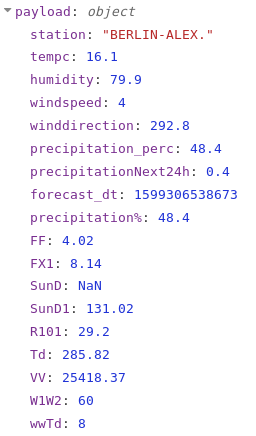
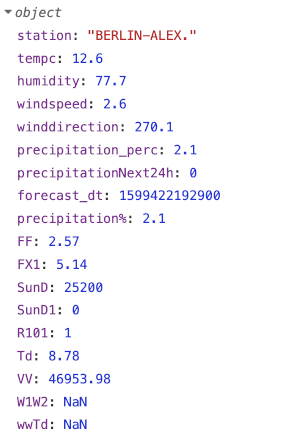
Documentation and error messages adjusted for "Additional fields"

diff --git a/dwdweather.js b/dwdweather.js
@@ -119,7 +119,11 @@ module.exports = function(RED) {
         while (Number.isNaN(weatherForecast[mosmixStation][attribute][idx])) {
             idx += direction;
             if (idx<0 || idx>=weatherForecast[mosmixStation][attribute].length) {
-                throw new Error(RED._("dwdweather.warn.nopredictions"));
+                if (direction>0) {
+                    throw new Error(RED._("dwdweather.warn.nofuturepredictions"));
+                } else {
+                    throw new Error(RED._("dwdweather.warn.nohistoricpredictions"));
+                }
             }
         }
 
@@ -150,7 +154,7 @@ module.exports = function(RED) {
         });
         if (idx==-1) {
             // no predictions for any future dates found - likely the file is too old
-            throw new Error(RED._("dwdweather.warn.nopredictions"));
+            throw new Error(RED._("dwdweather.warn.nofuturepredictions"));
         }
         return idx;
     }

diff --git a/readme.md b/readme.md
@@ -85,14 +85,23 @@ With the *Additional fields* property you can add further weather data to `msg.p
 Possible elements can be selected from this [MOSMIX element list](https://www.dwd.de/DE/leistungen/opendata/help/schluessel_datenformate/kml/mosmix_elemente_pdf.html) from the DWD.  
 Several elements can be selected and have to be comma-separated.
 
+##### Output modifiers
+The data provided by DWD is on an hourly basis. By default, output values will be linearly interpolated. Some data fields such as "SunD" (Yesterdays total sunshine duration) in the below example are only provided once every X hours or even once per day and interpolation does not make sense. With modifiers you can change how the output value is calculated in those cases. When not specifying a modifier, the value for those fields will be 'NaN' in most cases.
+
+Output modifiers are added as a prefix to the field name. So instead of just using "SunD", you would use ">SunD" to return today's predicted total sunshine duration.
+
+Available modifiers:
+ - `<` go back in time to find the last value for this field
+ - `>` go ahead in time to find the next value for this field
+ - `°` assume the field value is a temperature and convert it from Kelvin to Celsius 
+
+See also: Node issue ["NaN error with precipitation 24h and 3h"](https://github.com/c5te1n/node-red-contrib-dwd-local-weather/issues/18).
+
 ##### Example
-The following figure shows the `msg.payload` structure of an example with "FF,FX1,SunD,SunD1,R101,Td,VV,W1W2,wwTd":
+The following figure shows the `msg.payload` structure of an example with "FF,FX1,>SunD,SunD1,R101,°Td,VV,W1W2,wwTd":
 
 ![additional-fields](images/additional-fields.png "Additional fields")  
 **Fig. 4:** *Additional fields* example `msg.payload` contents
-
-Note that there may be values set to 'NaN' ("SunD" in the figure above) when evaluating these values.  
-See also: Node issue ["NaN error with precipitation 24h and 3h"](https://github.com/c5te1n/node-red-contrib-dwd-local-weather/issues/18).
 
 ##### MOSMIX elements used by the node
 The following MOSMIX elements are used as the basis for the node's `msg.payload` values:
@@ -102,7 +111,6 @@ The following MOSMIX elements are used as the basis for the node's `msg.payload`
 - `payload.winddirection`: "DD"
 - `payload.precipitation_perc`: "wwP"
 - `payload.precipitationNext24h`: "RR1c"
-
 
 #### Name
 A name for the wheather location may be set via this property.
